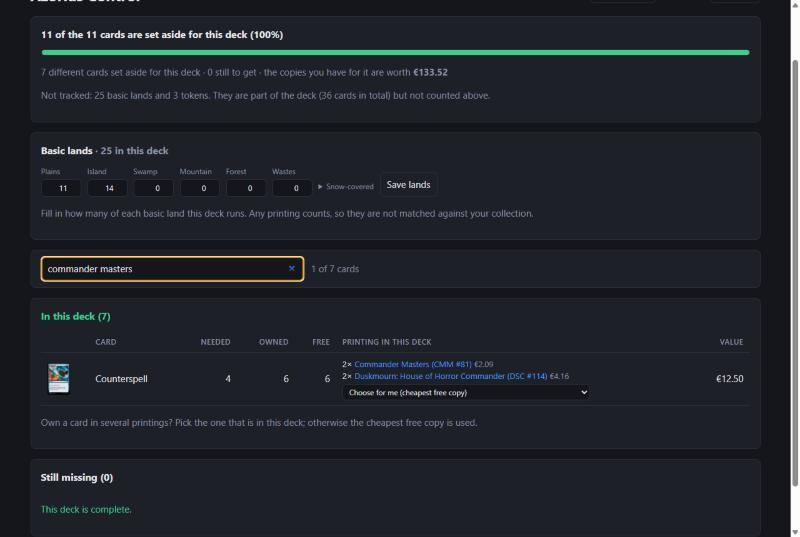
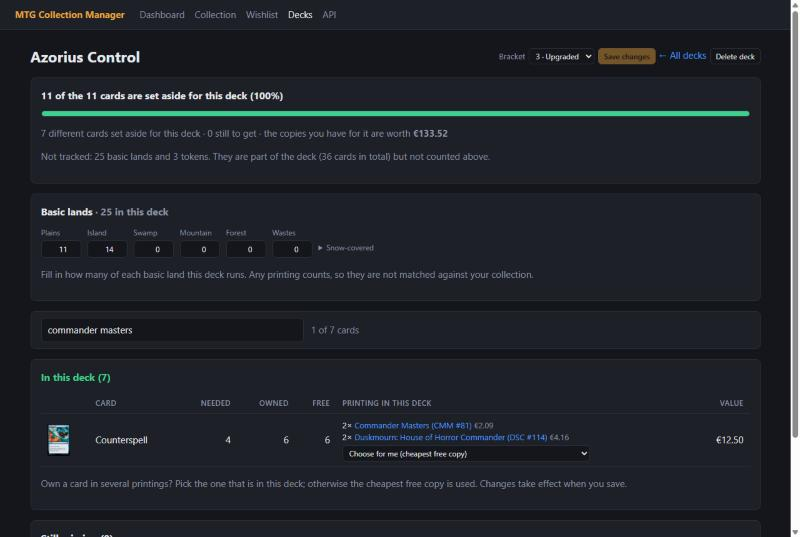
Deck page: save all changes with one button
Bracket, basic lands and chosen printings used to save themselves one by
one. They now belong to a single form with a "Save changes" button. The
button is disabled until a field differs from what is stored; changed
fields are highlighted and a bar at the bottom offers to save or discard.
Either everything is stored or, when a field is invalid, nothing.

Also ignore *.bak files and refresh the deck screenshots in the README.

diff --git a/app/templates/deck.html b/app/templates/deck.html
@@ -13,8 +13,8 @@
   </div>
   {% endfor %}
   {% if deck and row.entry_id and row.printings | length > 1 %}
-  <form class="inline" method="post" action="/decks/{{ deck.id }}/cards/{{ row.entry_id }}/printing" data-keep-scroll>
-    <select name="collection_entry_id" onchange="this.form.requestSubmit()" title="Choose which printing this deck uses">
+  <div>
+    <select name="pick:{{ row.entry_id }}" form="deck-form" title="Choose which printing this deck uses">
       <option value="">Choose for me (cheapest free copy)</option>
       {% for p in row.printings %}
       {% set free = row.free.get(p.entry.id, 0) %}
@@ -23,7 +23,7 @@
       </option>
       {% endfor %}
     </select>
-  </form>
+  </div>
   {% endif %}
   {% if row.used_by %}<div class="printing muted">{{ row.reserved }} in use by {{ row.used_by | join(', ') }}</div>{% endif %}
 {% endmacro %}
@@ -38,16 +38,17 @@
 <div class="toolbar">
   <h1>{{ deck.name }}</h1>
   <div class="actions">
-    <form class="inline" method="post" action="/decks/{{ deck.id }}/bracket" data-keep-scroll>
-      <label class="muted">Bracket
-        <select name="bracket" onchange="this.form.requestSubmit()" title="Commander bracket; change it when the deck changes">
-          <option value="">Not set</option>
-          {% for number, label in brackets.items() %}
-          <option value="{{ number }}" {{ 'selected' if deck.bracket == number }}>{{ number }} · {{ label }}</option>
-          {% endfor %}
-        </select>
-      </label>
-    </form>
+    {# Every editable field on this page belongs to this one form, so a single button saves them all. #}
+    <form id="deck-form" class="inline" method="post" action="/decks/{{ deck.id }}/save" data-keep-scroll></form>
+    <label class="muted">Bracket
+      <select name="bracket" form="deck-form" title="Commander bracket; change it when the deck changes">
+        <option value="">Not set</option>
+        {% for number, label in brackets.items() %}
+        <option value="{{ number }}" {{ 'selected' if deck.bracket == number }}>{{ number }} · {{ label }}</option>
+        {% endfor %}
+      </select>
+    </label>
+    <button form="deck-form" class="deck-save small">Save changes</button>
     <a href="/deck">← All decks</a>
     <form class="inline" method="post" action="/decks/{{ deck.id }}/delete" data-confirm="Click again to delete">
       <button class="secondary small">Delete deck</button>
@@ -146,20 +147,19 @@
 {% if deck %}
 <div class="panel">
   <h2>Basic lands <span class="muted">· {{ basics }} in this deck</span></h2>
-  <form class="row" method="post" action="/decks/{{ deck.id }}/basics" data-keep-scroll>
+  <div class="row">
     {% for land in basic_names[:6] %}
-    <label>{{ land }}<input class="qty" name="basic:{{ land }}" type="number" min="0" step="1" value="{{ left_out.basics.get(land, 0) }}"></label>
+    <label>{{ land }}<input class="qty" name="basic:{{ land }}" type="number" min="0" step="1" value="{{ left_out.basics.get(land, 0) }}" form="deck-form"></label>
     {% endfor %}
     <details class="snow" {{ 'open' if left_out.basics.keys() | select('in', basic_names[6:]) | list }}>
       <summary class="muted">Snow-covered</summary>
       <div class="row">
         {% for land in basic_names[6:] %}
-        <label>{{ land | replace('Snow-Covered ', '') }}<input class="qty" name="basic:{{ land }}" type="number" min="0" step="1" value="{{ left_out.basics.get(land, 0) }}"></label>
+        <label>{{ land | replace('Snow-Covered ', '') }}<input class="qty" name="basic:{{ land }}" type="number" min="0" step="1" value="{{ left_out.basics.get(land, 0) }}" form="deck-form"></label>
         {% endfor %}
       </div>
     </details>
-    <button class="secondary">Save lands</button>
-  </form>
+  </div>
   <p class="muted">Fill in how many of each basic land this deck runs. Any printing counts, so they are not matched against your collection.</p>
   {% if tracked_basics %}
   <form class="row notice" method="post" action="/decks/{{ deck.id }}/basics/move">
@@ -197,7 +197,7 @@
     </tr>
     {% endfor %}
   </table>
-  {% if deck %}<p class="muted">Own a card in several printings? Pick the one that is in this deck; otherwise the cheapest free copy is used.</p>{% endif %}
+  {% if deck %}<p class="muted">Own a card in several printings? Pick the one that is in this deck; otherwise the cheapest free copy is used. Changes take effect when you save.</p>{% endif %}
   {% else %}
   <p class="muted">None of these cards are available in your collection yet.</p>
   {% endif %}
@@ -242,6 +242,42 @@
 {% endblock %}
 
 {% block scripts %}
+{% if deck %}
+<div id="unsaved-bar" class="unsaved-bar" hidden>
+  <span>You have unsaved changes in this deck.</span>
+  <a href="/decks/{{ deck.id }}">Discard</a>
+  <button form="deck-form">Save changes</button>
+</div>
+<script>
+  // One save for the whole deck: the button lights up as soon as a field differs from what is stored.
+  const deckFields = [...document.querySelectorAll('[form="deck-form"][name]')];
+  // What the server sent, not what the field shows now: a browser may restore edited values on reload.
+  const storedValue = (field) =>
+    field.tagName === "SELECT"
+      ? ([...field.options].find((option) => option.defaultSelected) ?? field.options[0]).value
+      : field.defaultValue;
+  const stored = new Map(deckFields.map((field) => [field, storedValue(field)]));
+  const saveButtons = document.querySelectorAll('button[form="deck-form"]');
+  const unsavedBar = document.getElementById("unsaved-bar");
+
+  function markUnsaved() {
+    let dirty = false;
+    for (const field of deckFields) {
+      const changed = field.value !== stored.get(field);
+      field.classList.toggle("changed", changed);
+      dirty = dirty || changed;
+    }
+    for (const button of saveButtons) button.disabled = !dirty;
+    unsavedBar.hidden = !dirty;
+  }
+
+  for (const field of deckFields) {
+    field.addEventListener("input", markUnsaved);
+    field.addEventListener("change", markUnsaved);
+  }
+  markUnsaved();
+</script>
+{% endif %}
 {% if rows is not none %}
 <script>
   // Instant search over the cards of this deck (name or set), ignoring accents.

diff --git a/app/static/style.css b/app/static/style.css
@@ -73,9 +73,9 @@ img.thumb { width: 36px; aspect-ratio: 5 / 7; background: var(--bg); border-radi
 .badge.foil { border-color: var(--accent); color: var(--accent); }
 
 form.inline { display: inline; }
-form.row { display: flex; flex-wrap: wrap; gap: 10px; align-items: flex-end; }
-form.row label { display: flex; flex-direction: column; gap: 4px; font-size: 12px; color: var(--muted); }
-form.row label.check { flex-direction: row; align-items: center; padding-bottom: 8px; }
+.row { display: flex; flex-wrap: wrap; gap: 10px; align-items: flex-end; }
+.row label { display: flex; flex-direction: column; gap: 4px; font-size: 12px; color: var(--muted); }
+.row label.check { flex-direction: row; align-items: center; padding-bottom: 8px; }
 
 input, textarea, button {
   font: inherit;
@@ -135,3 +135,10 @@ details.snow summary { cursor: pointer; font-size: 12px; padding-bottom: 8px; }
 .actions select { margin-top: 0; }
 
 .notice { align-items: center; margin-top: 10px; padding: 8px 12px; border: 1px solid var(--accent); border-radius: 6px; font-size: 13px; }
+
+/* Deck page: one save for all edits. */
+button:disabled { opacity: .45; cursor: default; filter: none; }
+.changed { border-color: var(--accent) !important; }
+.unsaved-bar { position: fixed; left: 50%; bottom: 20px; transform: translateX(-50%); display: flex; align-items: center; gap: 14px;
+  padding: 10px 16px; background: var(--panel); border: 1px solid var(--accent); border-radius: 10px; box-shadow: 0 6px 24px rgba(0, 0, 0, .5); z-index: 10; }
+.unsaved-bar[hidden] { display: none; }

diff --git a/tests/test_decks.py b/tests/test_decks.py
@@ -426,3 +426,35 @@ def test_move_basic_lands_out_of_an_older_deck(client):
 
     again = client.post(f"/api/decks/{deck['id']}/basic-lands/move").json()  # nothing left to move
     assert again["basic_lands"] == {"Island": 4, "Forest": 31}
+
+
+def test_save_button_stores_all_deck_changes_at_once(client):
+    cheap = client.post("/api/collection", json={"name": "Sol Ring", "set_code": "cmm"}).json()
+    pricey = client.post("/api/collection", json={"name": "Sol Ring", "set_code": "lea"}).json()
+    deck = client.post("/api/decks", json={"name": "Ramp", "decklist": "1 Sol Ring"}).json()
+    entry_id = deck["cards"][0]["entry_id"]
+    url = f"/decks/{deck['id']}/save"
+
+    page = client.get(f"/decks/{deck['id']}")
+    assert 'id="deck-form"' in page.text and "Save changes" in page.text and "Save lands" not in page.text
+    assert f'name="pick:{entry_id}" form="deck-form"' in page.text
+    assert "onchange" not in page.text  # nothing is saved until the button is pressed
+
+    saved = client.post(url, data={"bracket": "3", "basic:Plains": "10", "basic:Forest": "", f"pick:{entry_id}": str(pricey["id"])})
+    assert "Changes saved" in saved.text
+    detail = client.get(f"/api/decks/{deck['id']}").json()
+    assert (detail["bracket"], detail["basic_lands"], detail["value"]) == (3, {"Plains": 10}, 900.0)
+    assert detail["cards"][0]["chosen_collection_entry_id"] == pricey["id"]
+
+    # Fields that are cleared go back to "not set" / automatic.
+    client.post(url, data={"bracket": "", "basic:Plains": "0", f"pick:{entry_id}": ""})
+    detail = client.get(f"/api/decks/{deck['id']}").json()
+    assert (detail["bracket"], detail["basic_lands"], detail["cards"][0]["chosen_collection_entry_id"]) == (None, {}, None)
+
+    # One invalid field and nothing at all is stored.
+    failed = client.post(url, data={"bracket": "4", "basic:Plains": "-2", f"pick:{entry_id}": str(cheap["id"])})
+    assert "Nothing was saved" in failed.text
+    detail = client.get(f"/api/decks/{deck['id']}").json()
+    assert (detail["bracket"], detail["basic_lands"]) == (None, {})
+    assert "Nothing was saved" in client.post(url, data={"bracket": "9"}).text
+    assert "Deck not found" in client.post("/decks/9999/save", data={}).text

diff --git a/app/routers/pages.py b/app/routers/pages.py
@@ -322,6 +322,35 @@ def _basic_lands_from(form) -> dict[str, int]:
     )
 
 
+@router.post("/decks/{deck_id}/save")
+async def saved_deck_save(deck_id: int, request: Request, session: Session = Depends(get_session)):
+    """The "Save changes" button: bracket, basic lands and chosen printings together."""
+    deck = session.get(Deck, deck_id)
+    if deck is None:
+        return redirect("/deck", "Deck not found", error=True)
+    form = await request.form()
+    try:
+        bracket = str(form.get("bracket", "")).strip()
+        printings = {
+            int(key.removeprefix("pick:")): int(value) if str(value).strip() else None
+            for key, value in form.items()
+            if key.startswith("pick:")
+        }
+        decks.update_deck(
+            session,
+            deck,
+            int(bracket) if bracket else None,
+            {key.removeprefix("basic:"): value for key, value in form.items() if key.startswith("basic:")},
+            printings,
+        )
+    except (ValueError, decks.DeckError) as exc:
+        session.rollback()
+        message = str(exc) if isinstance(exc, decks.DeckError) else "That is not a valid value"
+        return redirect(f"/decks/{deck_id}", f"Nothing was saved: {message}", error=True)
+    session.commit()
+    return redirect(f"/decks/{deck_id}", "Changes saved")
+
+
 @router.post("/decks/{deck_id}/basics")
 async def saved_deck_basics(deck_id: int, request: Request, session: Session = Depends(get_session)):
     deck = session.get(Deck, deck_id)

diff --git a/app/services/decks.py b/app/services/decks.py
@@ -467,6 +467,25 @@ def set_basic_lands(session: Session, deck: Deck, counts: dict[str, object]) -> 
     return basics
 
 
+def update_deck(
+    session: Session,
+    deck: Deck,
+    bracket: int | None,
+    basic_lands: dict[str, object],
+    printings: dict[int, int | None],
+) -> None:
+    """Save everything that can be edited on a deck in one go.
+
+    `printings` maps a deck entry id to the chosen collection entry id (None = let the app choose).
+    Nothing is stored when any part is invalid.
+    """
+    basics = parse_basic_lands(basic_lands)
+    set_bracket(session, deck, bracket)
+    set_basic_lands(session, deck, basics)
+    for entry_id, collection_entry_id in printings.items():
+        choose_printing(session, deck, entry_id, collection_entry_id)
+
+
 def tracked_basic_lands(session: Session, deck: Deck) -> int:
     """Basic lands that are still in the deck's card list (decks saved before lands were counted apart)."""
     entries = session.exec(select(DeckEntry).where(DeckEntry.deck_id == deck.id))

diff --git a/README.md b/README.md
@@ -23,6 +23,8 @@ price.
 
 ![A saved deck: its bracket, basic lands per land, search, and the printing each card uses](docs/deck.jpg)
 
+![Unsaved changes in a deck: the changed fields are highlighted and one button saves them all](docs/deck-unsaved.jpg)
+
 ![Searching inside a deck on a set name](docs/deck-search.jpg)
 
 ![Deleting a deck asks for a second click instead of a pop-up](docs/deck-delete.jpg)
@@ -57,6 +59,7 @@ price.
 - Basic lands and tokens are left out of the tracked cards by default, so they do not show up as missing or end up on your wishlist; tick a box to include them
 - Basic lands per deck: fill in how many of each basic land a deck runs, whatever the printing. Imported decks start with the numbers from the list, and older decks can move their lands over in one click
 - Search inside a deck on card name or set
+- One "Save changes" button per deck: bracket, basic lands and chosen printings are edited freely and stored together, with a reminder while there are unsaved changes
 - Commander bracket per deck: taken from Archidekt when the deck has one, and changeable at any time
 - Choose the printing: if you own a card in several printings you pick which one is in the deck (say, the foil); otherwise the cheapest free copy is used
 - Deck value: every saved deck shows what the copies in it are worth
